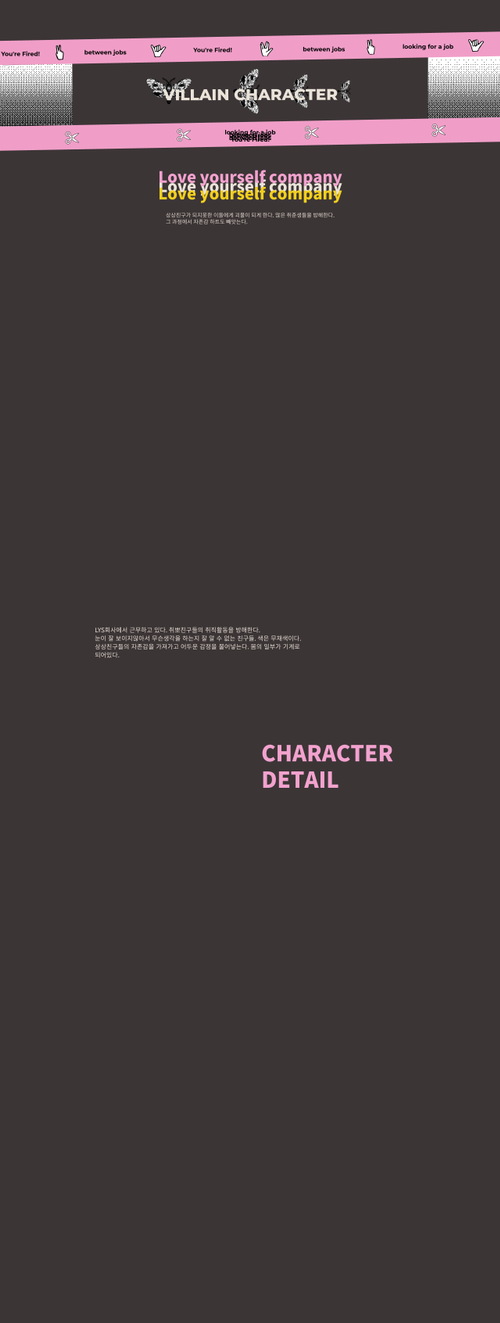
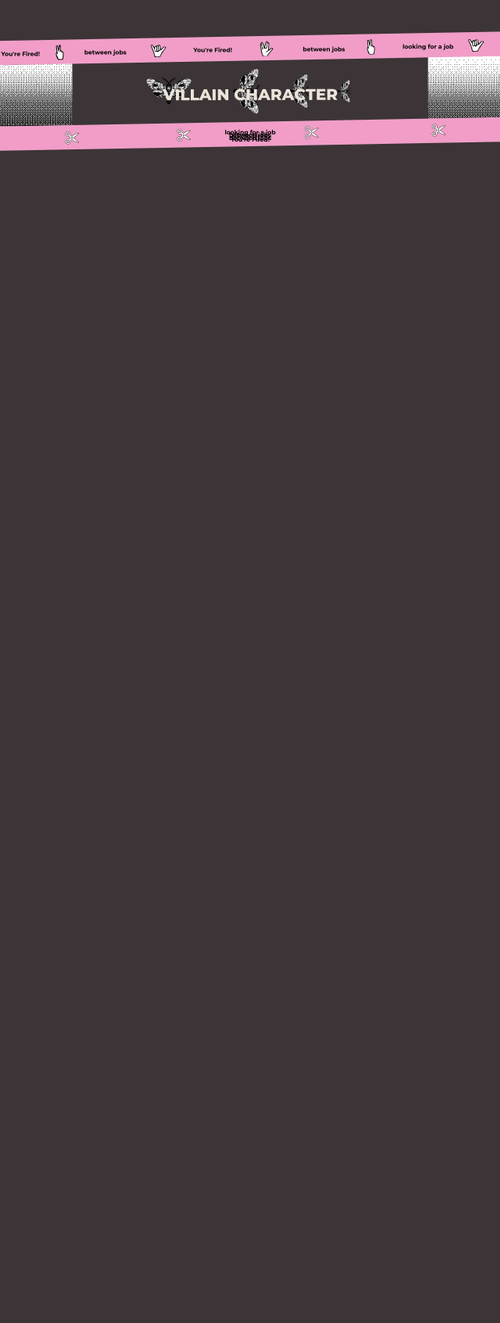
Add files via upload

Changed region(s): [[0.3, 0.124, 0.69, 0.1859], [0.18, 0.4649, 0.6, 0.4958], [0.51, 0.5578, 0.78, 0.6198]]

diff --git a/index.html b/index.html
@@ -1,10 +1,10 @@
 <!DOCTYPE html>
 <!--  This site was created in Webflow. http://www.webflow.com  -->
-<!--  Last Published: Mon Oct 26 2020 08:28:44 GMT+0000 (Coordinated Universal Time)  -->
+<!--  Last Published: Mon Oct 26 2020 09:19:56 GMT+0000 (Coordinated Universal Time)  -->
 <html data-wf-page="5f91db0aa7d2d37b4d5ec125" data-wf-site="5f88a52d946e1a3f3832aef7">
 <head>
   <meta charset="utf-8">
-  <title>Copy of Chwippo Friends</title>
+  <title>Chwippo Friends</title>
   <meta content="width=device-width, initial-scale=1" name="viewport">
   <meta content="Webflow" name="generator">
   <link href="css/normalize.css" rel="stylesheet" type="text/css">
@@ -18,7 +18,8 @@
   <link href="images/webclip.png" rel="apple-touch-icon">
 </head>
 <body class="body">
-  <div class="section"><img src="images/헤더1.png" loading="lazy" sizes="(max-width: 991px) 100vw, (max-width: 1919px) 1350px, 1920px" srcset="images/헤더1-p-500.png 500w, images/헤더1-p-800.png 800w, images/헤더1-p-1080.png 1080w, images/헤더1-p-1600.png 1600w, images/헤더1.png 1920w" alt="" class="image">
+  <div class="section-3"><img src="images/헤더1.png" loading="lazy" sizes="(max-width: 991px) 100vw, (max-width: 1919px) 1350px, 1920px" srcset="images/헤더1-p-500.png 500w, images/헤더1-p-800.png 800w, images/헤더1-p-1080.png 1080w, images/헤더1-p-1600.png 1600w, images/헤더1.png 1920w" alt="" class="image"></div>
+  <div class="section">
     <div data-w-id="94d783aa-a27d-1bf3-440f-d035afeab298" class="hero-line2-copy">
       <h1 class="line1-copy">You&#x27;re Fired!</h1><img src="images/hand_1hand.png" loading="lazy" alt="">
       <h1 class="line1-copy">You&#x27;re Fired!</h1><img src="images/hand_2.png" loading="lazy" height="" width="80" alt="" class="image-35">
@@ -117,12 +118,12 @@
         <p class="paragraph-2 paragraph">LYS회사에서 근무하고 있다. 취뽀친구들의 취직활동을 방해한다.눈이 잘 보이지않아서 무슨생각을 하는지 잘 알 수 없는 친구들. 색은 무채색이다. 상상친구들의 자존감을 가져가고 어두운 감정을 불어넣는다. 몸의 일부가 기계로 되어있다.</p>
       </div>
       <div class="w-col w-col-6">
-        <p class="paragraph-3 paragraph">�Love&amp;yourself company회사 (통칭 LYS)<br>: 상상친구가 되지못한 이들에게 괴물이 되게 한다. 많은 취준생들을 방해한다.그 과정에서 자존감 하트도 빼앗아 판매한다. 백조와 나쿤이 근무하고 있다.</p>
+        <p class="paragraph-3 paragraph">Love&amp;yourself company회사 (통칭 LYS)<br>: 상상친구가 되지못한 이들에게 괴물이 되게 한다. 많은 취준생들을 방해한다.그 과정에서 자존감 하트도 빼앗아 판매한다. 백조와 나쿤이 근무하고 있다.</p>
       </div>
     </div>
     <div data-poster-url="https://uploads-ssl.webflow.com/5f7e136cf7263e3e947e860c/5f7e722dc57e4f42e3050b7b_backgruound-poster-00001.jpg" data-video-urls="videos/backgruound-poster-00001.jpg,videos/backgruound-transcode.mp4,videos/backgruound-transcode.webm" data-autoplay="true" data-loop="true" data-wf-ignore="true" class="background-video-3 w-background-video w-background-video-atom"><video autoplay="" loop="" style="background-image:url(&quot;https://uploads-ssl.webflow.com/5f7e136cf7263e3e947e860c/5f7e722dc57e4f42e3050b7b_backgruound-poster-00001.jpg&quot;)" muted="" playsinline="" data-wf-ignore="true" data-object-fit="cover"><source src="videos/backgruound-poster-00001.jpg" data-wf-ignore="true"><source src="videos/backgruound-transcode.mp4" data-wf-ignore="true"><source src="videos/backgruound-transcode.webm" data-wf-ignore="true"></video></div>
     <div class="container-3-copy"></div>
-    <div class="container-5 w-container"><img src="images/빌런.png" loading="lazy" sizes="(max-width: 991px) 100vw, 1350px" srcset="images/빌런-p-500.png 500w, images/빌런-p-800.png 800w, images/빌런-p-1080.png 1080w, images/빌런-p-1600.png 1600w, images/빌런.png 1920w" alt="" class="image-30"></div>
+    <div class="container-5 w-container"><img src="images/beakjo.png" loading="lazy" sizes="(max-width: 991px) 100vw, 1350px" srcset="images/beakjo.png 500w, images/beakjo.png 800w, images/beakjo.png 1080w, images/beakjo.png 1600w, images/beakjo.png 1920w" alt="" class="image-30"></div>
   </div>
   <footer id="footer" class="footer"><img src="images/logo.png" loading="lazy" sizes="(max-width: 767px) 28vw, 30vw" srcset="images/logo-p-500.png 500w, images/logo.png 632w" alt="" class="image-22">
     <div class="columns-5 w-row">
@@ -136,7 +137,6 @@
     </div>
     <div class="text-block"><br>Copyright © 2020. All rights reserved.<br></div>
   </footer>
-  <div></div>
   <script src="https://d3e54v103j8qbb.cloudfront.net/js/jquery-3.5.1.min.dc5e7f18c8.js?site=5f88a52d946e1a3f3832aef7" type="text/javascript" integrity="sha256-9/aliU8dGd2tb6OSsuzixeV4y/faTqgFtohetphbbj0=" crossorigin="anonymous"></script>
   <script src="js/webflow.js" type="text/javascript"></script>
   <!-- [if lte IE 9]><script src="https://cdnjs.cloudflare.com/ajax/libs/placeholders/3.0.2/placeholders.min.js"></script><![endif] -->

diff --git a/css/qqs-fabulous-project-9d89e8c4ec254935d6.webflow.css b/css/qqs-fabulous-project-9d89e8c4ec254935d6.webflow.css
@@ -16,7 +16,7 @@
 
 .image {
   position: static;
-  display: inline-block;
+  display: block;
   width: 1350px;
   max-width: none;
   background-color: #ece5db;
@@ -1612,7 +1612,7 @@
   display: flex;
   width: 120%;
   height: 80px;
-  margin-top: 180px;
+  margin-top: 200px;
   margin-bottom: auto;
   -webkit-box-pack: center;
   -webkit-justify-content: center;
@@ -1622,8 +1622,7 @@
   -webkit-align-items: center;
   -ms-flex-align: center;
   align-items: center;
-  background-color: #f2a0ca;
-  background-image: radial-gradient(circle farthest-corner at 50% 50%, #f2a0ca, #3c3536);
+  background-color: #ece5db;
   -webkit-transform: rotate(-2deg);
   -ms-transform: rotate(-2deg);
   transform: rotate(-2deg);
@@ -2090,7 +2089,13 @@
 
 @media screen and (min-width: 1920px) {
   .image {
+    display: block;
     width: 1920px;
+    float: none;
+    clear: none;
+    text-align: center;
+    -o-object-fit: contain;
+    object-fit: contain;
   }
   .body {
     background-color: #3c3536;
@@ -2743,6 +2748,16 @@
   }
   .container-10 {
     display: inline-block;
+  }
+  .section-3 {
+    display: -webkit-box;
+    display: -webkit-flex;
+    display: -ms-flexbox;
+    display: flex;
+    -webkit-box-pack: center;
+    -webkit-justify-content: center;
+    -ms-flex-pack: center;
+    justify-content: center;
   }
 }
 

diff --git a/3.html b/3.html
@@ -1,6 +1,6 @@
 <!DOCTYPE html>
 <!--  This site was created in Webflow. http://www.webflow.com  -->
-<!--  Last Published: Mon Oct 26 2020 08:28:44 GMT+0000 (Coordinated Universal Time)  -->
+<!--  Last Published: Mon Oct 26 2020 09:19:56 GMT+0000 (Coordinated Universal Time)  -->
 <html data-wf-page="5f91db0aa7d2d347c95ec12a" data-wf-site="5f88a52d946e1a3f3832aef7">
 <head>
   <meta charset="utf-8">

diff --git a/4.html b/4.html
@@ -1,6 +1,6 @@
 <!DOCTYPE html>
 <!--  This site was created in Webflow. http://www.webflow.com  -->
-<!--  Last Published: Mon Oct 26 2020 08:28:44 GMT+0000 (Coordinated Universal Time)  -->
+<!--  Last Published: Mon Oct 26 2020 09:19:56 GMT+0000 (Coordinated Universal Time)  -->
 <html data-wf-page="5f91db0aa7d2d3f5aa5ec12b" data-wf-site="5f88a52d946e1a3f3832aef7">
 <head>
   <meta charset="utf-8">

diff --git a/401.html b/401.html
@@ -1,6 +1,6 @@
 <!DOCTYPE html>
 <!--  This site was created in Webflow. http://www.webflow.com  -->
-<!--  Last Published: Mon Oct 26 2020 08:28:44 GMT+0000 (Coordinated Universal Time)  -->
+<!--  Last Published: Mon Oct 26 2020 09:19:56 GMT+0000 (Coordinated Universal Time)  -->
 <html data-wf-page="5f91db0aa7d2d390a05ec127" data-wf-site="5f88a52d946e1a3f3832aef7">
 <head>
   <meta charset="utf-8">

diff --git a/character1dang.html b/character1dang.html
@@ -1,6 +1,6 @@
 <!DOCTYPE html>
 <!--  This site was created in Webflow. http://www.webflow.com  -->
-<!--  Last Published: Mon Oct 26 2020 08:28:44 GMT+0000 (Coordinated Universal Time)  -->
+<!--  Last Published: Mon Oct 26 2020 09:19:56 GMT+0000 (Coordinated Universal Time)  -->
 <html data-wf-page="5f91db0aa7d2d315375ec128" data-wf-site="5f88a52d946e1a3f3832aef7">
 <head>
   <meta charset="utf-8">

diff --git a/character2.html b/character2.html
@@ -1,6 +1,6 @@
 <!DOCTYPE html>
 <!--  This site was created in Webflow. http://www.webflow.com  -->
-<!--  Last Published: Mon Oct 26 2020 08:28:44 GMT+0000 (Coordinated Universal Time)  -->
+<!--  Last Published: Mon Oct 26 2020 09:19:56 GMT+0000 (Coordinated Universal Time)  -->
 <html data-wf-page="5f91db0aa7d2d34fc45ec129" data-wf-site="5f88a52d946e1a3f3832aef7">
 <head>
   <meta charset="utf-8">
